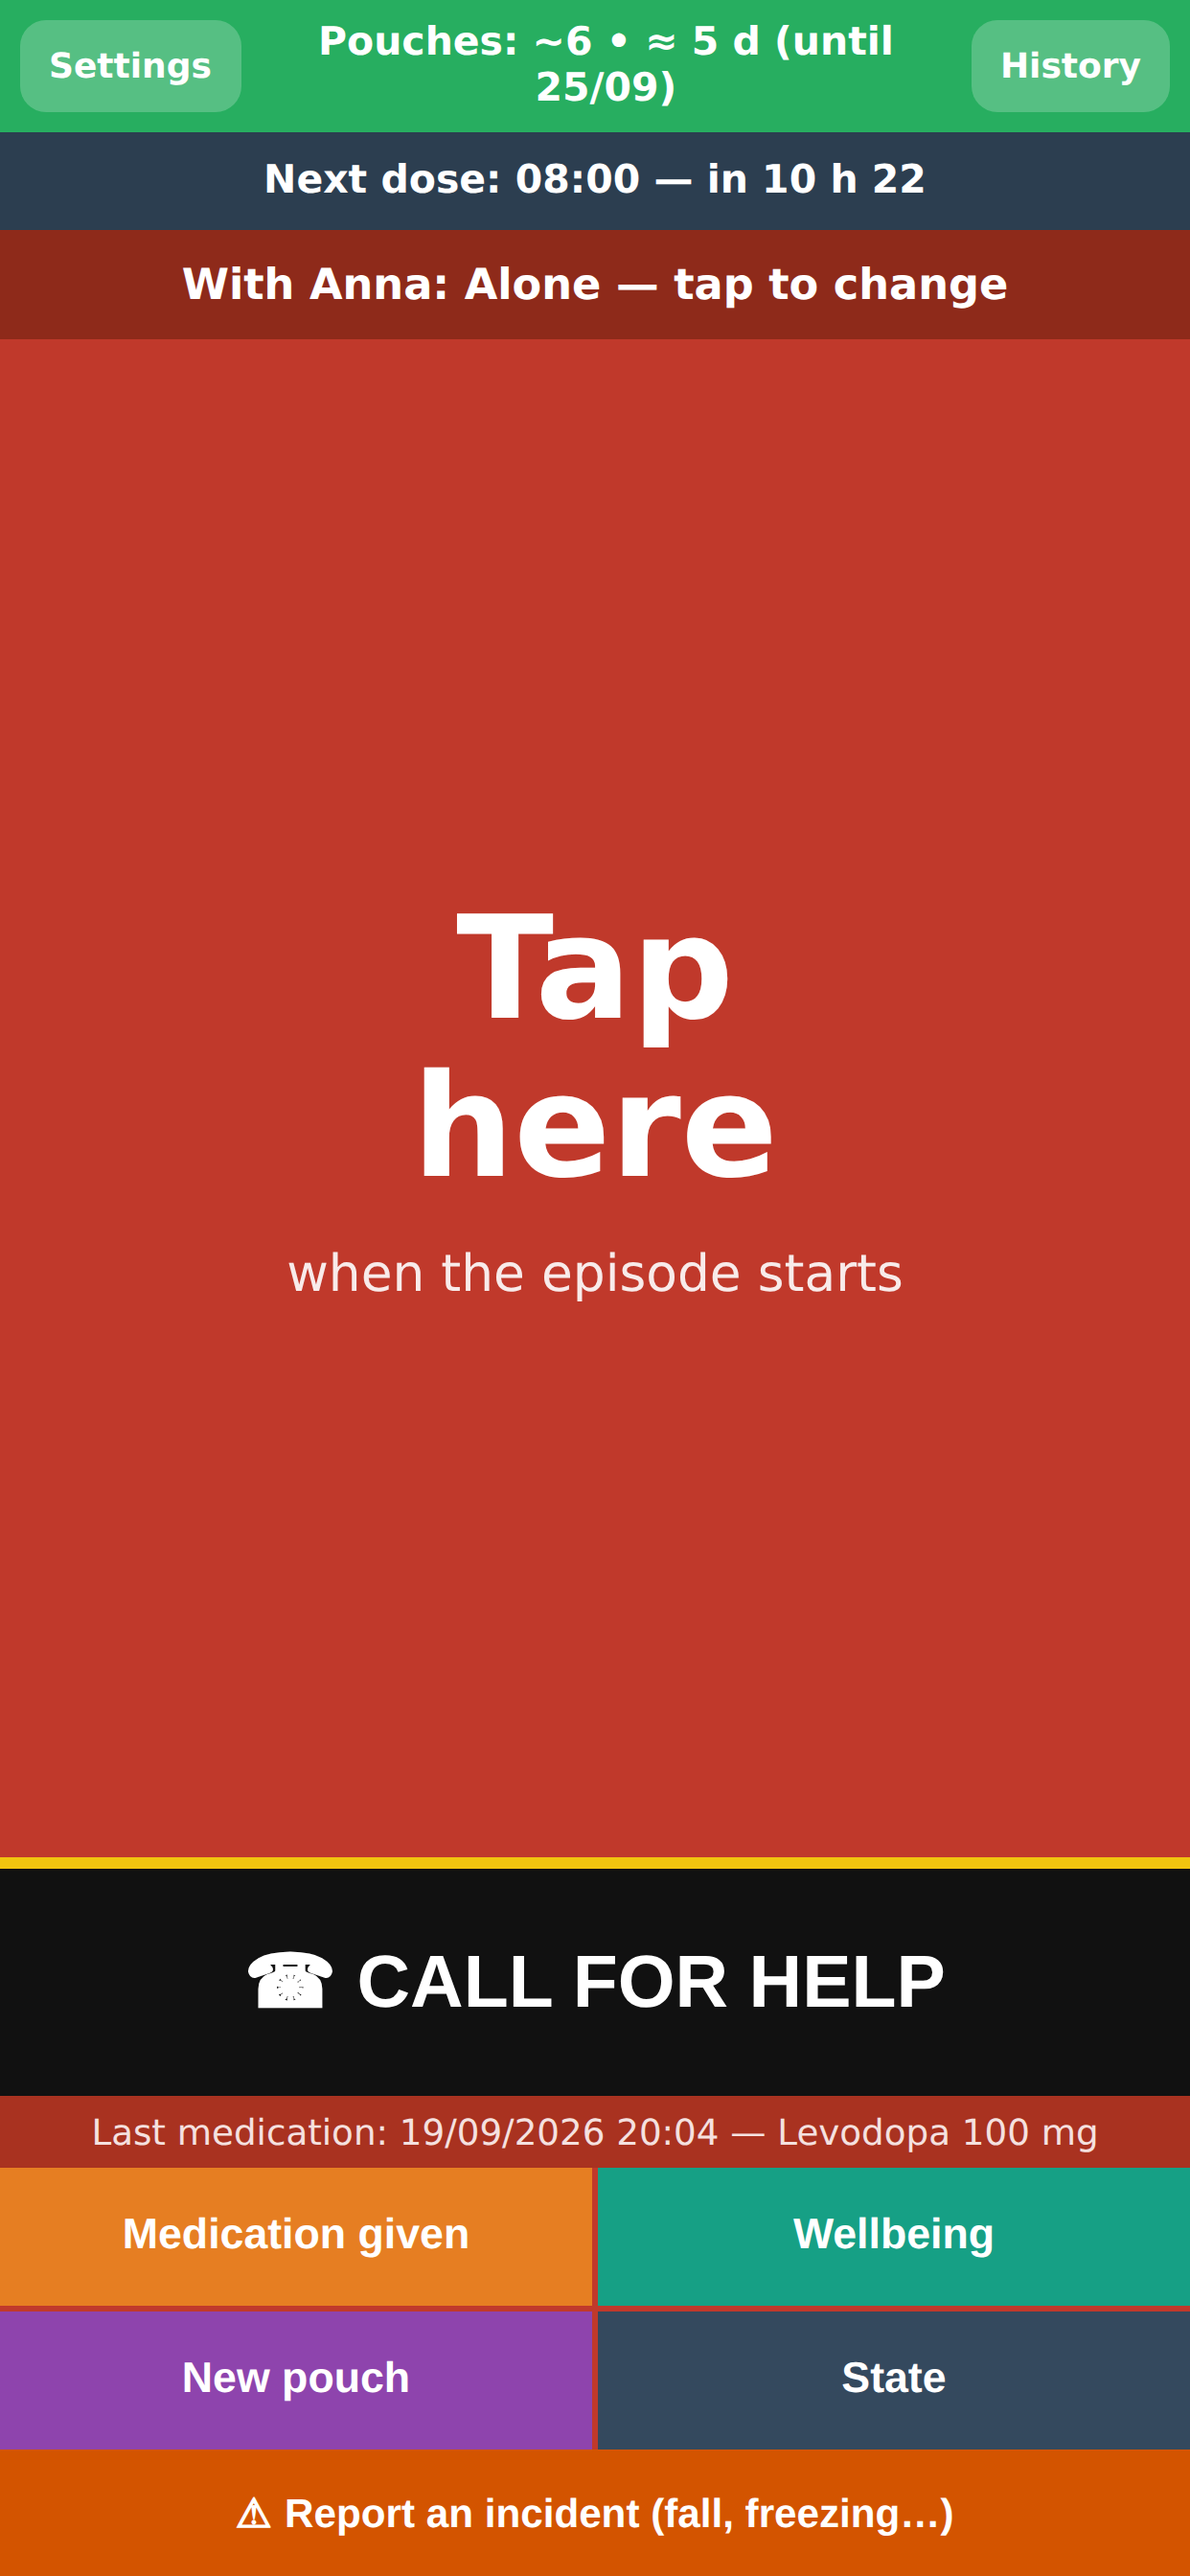
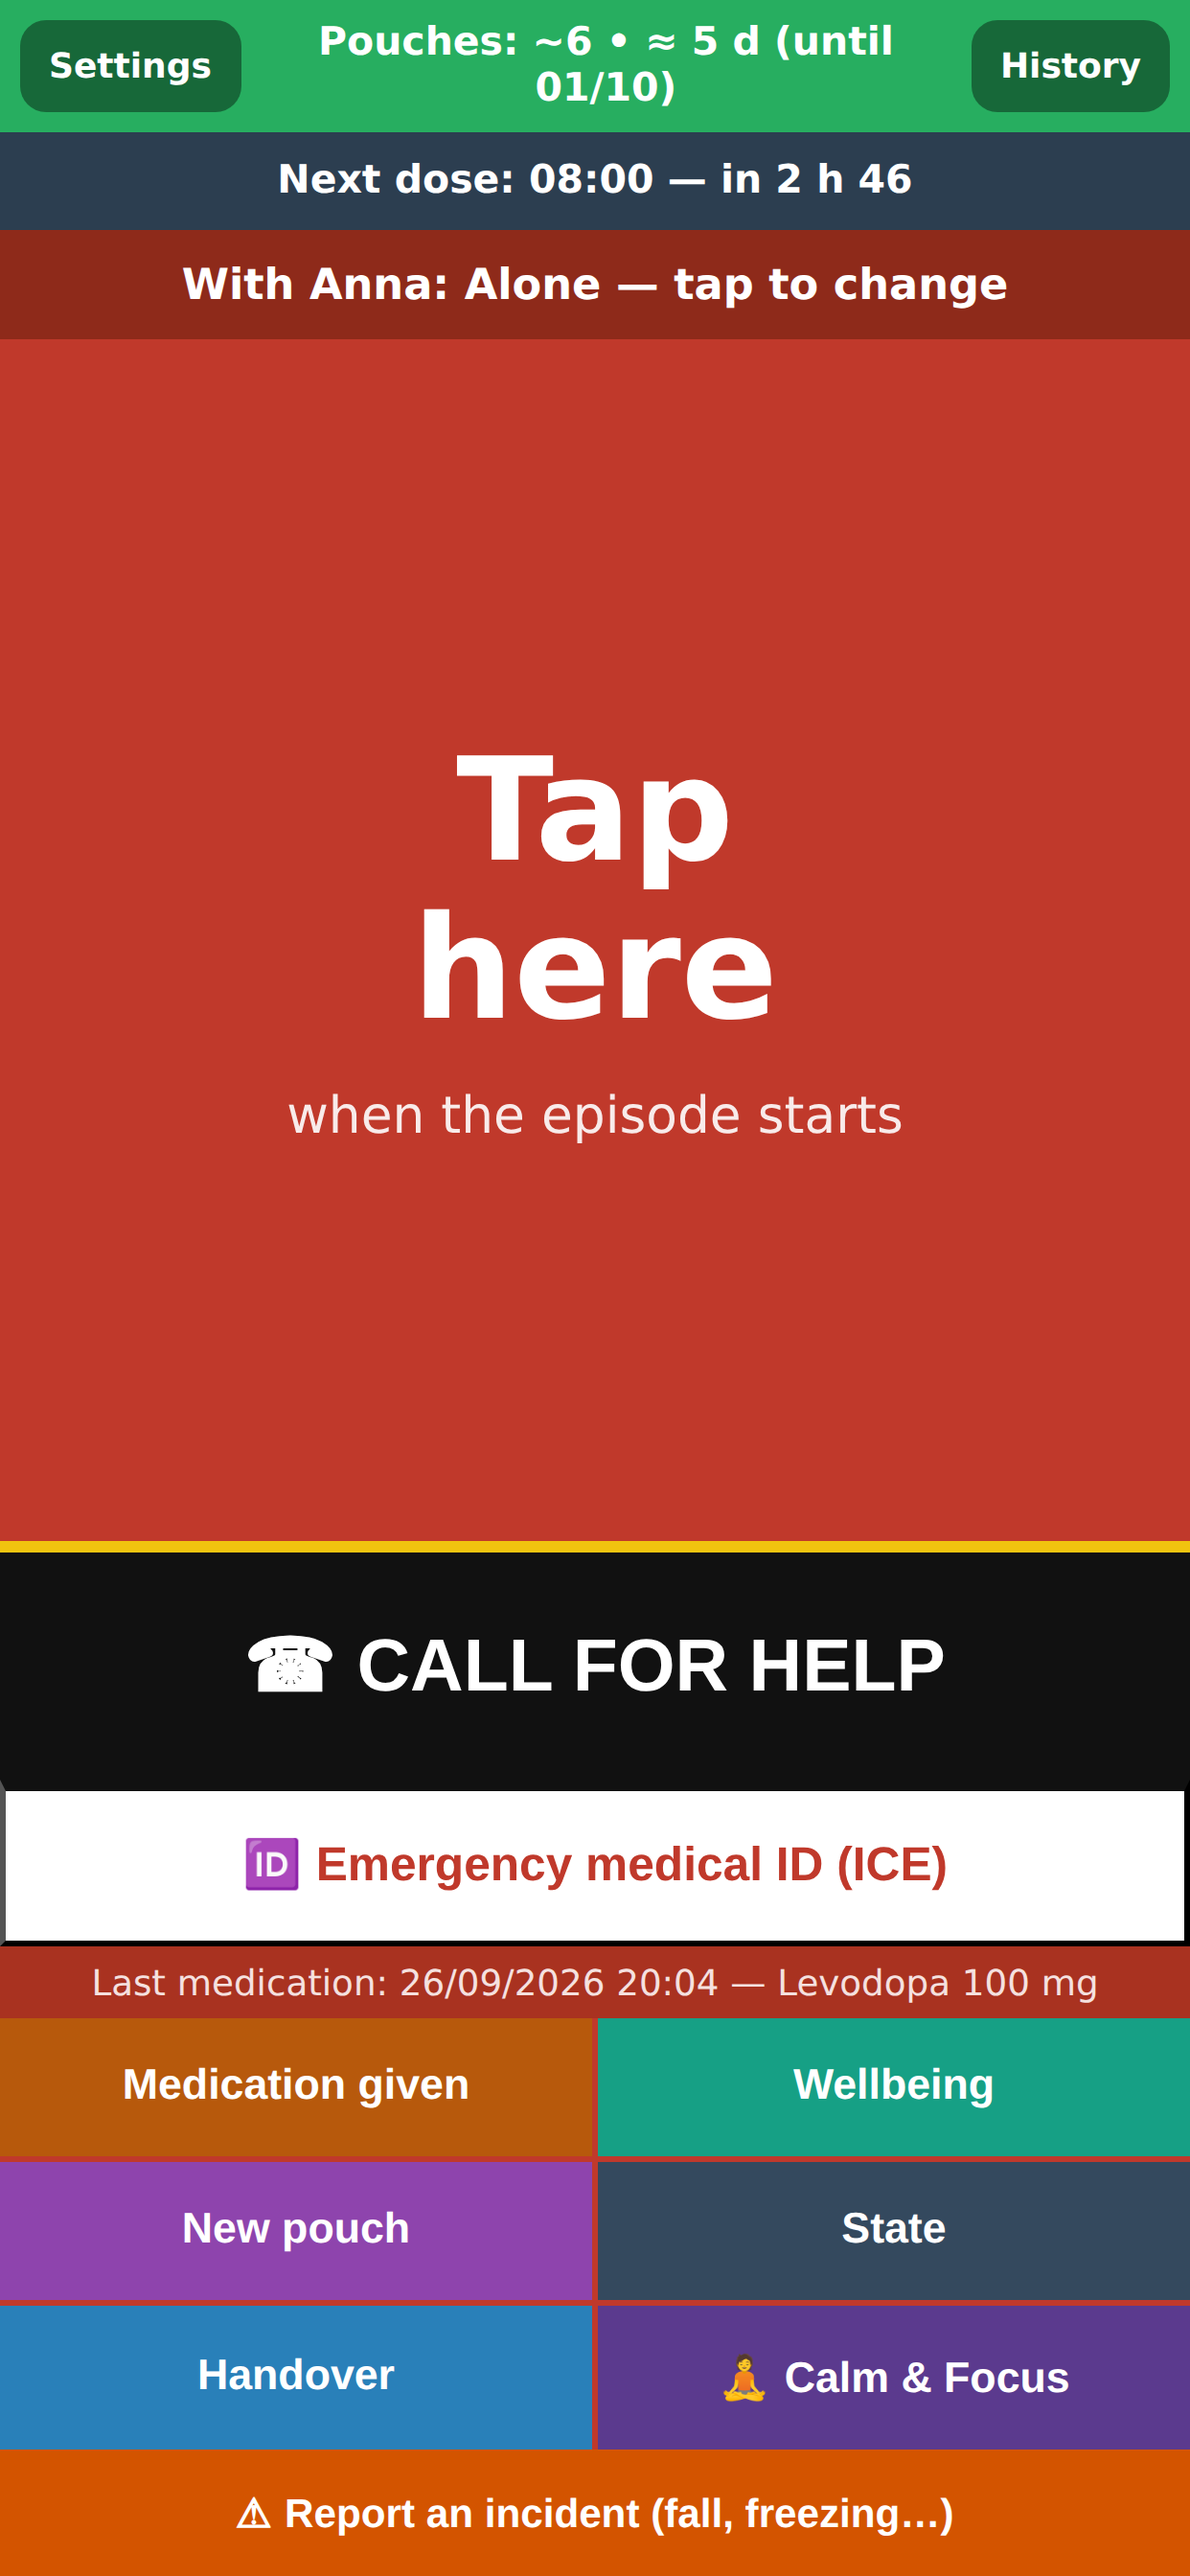
Fix rejected screenshot size and add ICE/Handover/Calm & Focus shots
Apple rejected the uploaded screenshots outright — they were raw device
captures at whatever resolution the phone actually is, not one of
Apple's fixed accepted sizes. Separately, the 5 screenshots the script
did generate covered only the original 1.0 feature set: none of the
Emergency Medical ID card, Caregiver Handover, or Calm & Focus (all
added since) were represented at all.

- iphone69 size changed from 430x932@3x (1290x2796, a real device
  resolution but NOT one of Apple's currently-accepted sizes) to
  428x926@3x (1284x2778, which is accepted). iphone65 was already
  correct at 1242x2688.
- Added three shots: ICE card, Handover notes, Calm & Focus.
- Seeded diagnosis/DBS/allergies/blood-type and a sample handover note,
  so those two new screenshots show a filled-in example instead of
  empty "Not set" / "No notes yet" placeholders.
- Regenerated the full set (32 files: 2 sizes x 2 locales x 8 screens)
  and verified every file's actual pixel dimensions with PIL.

Claude-Session: https://claude.ai/code/session_014oeu1ZTcLT12zPXANd3uEw

diff --git a/tools/make-screenshots.js b/tools/make-screenshots.js
@@ -13,7 +13,11 @@ const path = require('path');
 const BASE = process.env.BASE_URL || 'http://127.0.0.1:8099';
 const OUT = 'fastlane/screenshots';
 const SIZES = [
-  { name: 'iphone69', w: 430, h: 932, scale: 3 },   // 1290x2796 (6.7"/6.9" slot)
+  // Apple's currently-accepted App Store screenshot pixel sizes: exactly
+  // 1284x2778 and 1242x2688 (or their landscape rotations). 1290x2796
+  // (an equally real device resolution, iPhone 15/16 Pro Max) is NOT in
+  // that accepted list and was silently rejected on upload.
+  { name: 'iphone69', w: 428, h: 926, scale: 3 },   // 1284x2778 (6.7" slot)
   { name: 'iphone65', w: 414, h: 896, scale: 3 },   // 1242x2688 (6.5" slot)
 ];
 
@@ -63,6 +67,19 @@ function seedScript(lang) {
       { text: 'Levodopa 150 mg; Entacapone 200 mg', start: now - 28 * D, end: null },
     ]));
     localStorage.setItem('lastbackup_v5', String(now - 2 * D));
+    // ICE card + handover note, so those two screenshots show a filled-in
+    // example instead of empty "Not set" / "No notes yet" placeholders.
+    localStorage.setItem('diagnosis_v5', ${JSON.stringify(lang === 'fr' ? "Maladie de Parkinson, diagnostiquée en 2019" : "Parkinson's disease, diagnosed 2019")});
+    localStorage.setItem('dbs_v5', 'yes');
+    localStorage.setItem('dbsdetail_v5', ${JSON.stringify(lang === 'fr' ? "Implanté en 2021, Medtronic" : "Implanted 2021, Medtronic")});
+    localStorage.setItem('allergies_v5', ${JSON.stringify(lang === 'fr' ? "Pénicilline" : "Penicillin")});
+    localStorage.setItem('blood_v5', 'O+');
+    localStorage.setItem('shiftlog_v5', JSON.stringify([
+      { time: now - 2 * 36e5, who: ${JSON.stringify(lang === 'fr' ? 'Jean' : 'David')},
+        text: ${JSON.stringify(lang === 'fr'
+          ? "A bien mangé, a mal dormi, risque de chute vers 15h, prochaine dose à 18h."
+          : "Ate well, slept poorly, fall risk around 3pm, next dose at 6pm.")} },
+    ]));
   })()`;
 }
 
@@ -74,6 +91,9 @@ const SHOTS = [
   { id: '4-history', go: async p => { await p.click('#histLink'); await p.waitForTimeout(400); } },
   { id: '5-meds',    go: async p => { await p.click('#setLink'); await p.waitForTimeout(300);
                                       await p.$eval('#medListRows', e => e.scrollIntoView({ block: 'center' })); await p.waitForTimeout(300); } },
+  { id: '6-ice',     go: async p => { await p.click('#iceBtn'); await p.waitForTimeout(400); } },
+  { id: '7-handover',go: async p => { await p.click('#handoverBtn'); await p.waitForTimeout(400); } },
+  { id: '8-calm',    go: async p => { await p.click('#calmBtn'); await p.waitForTimeout(400); } },
 ];
 
 (async () => {
